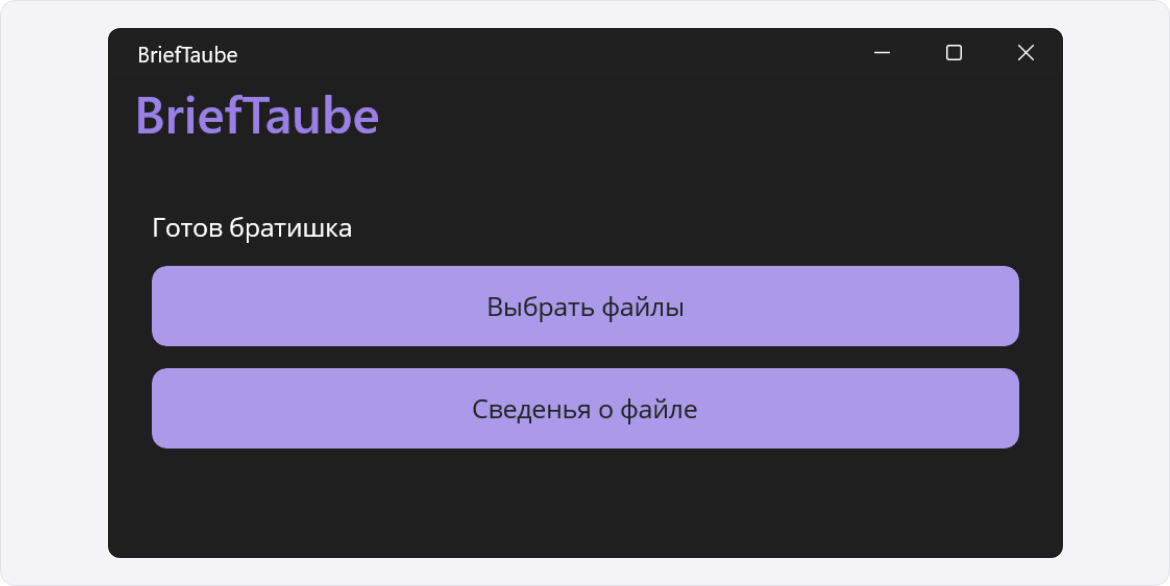
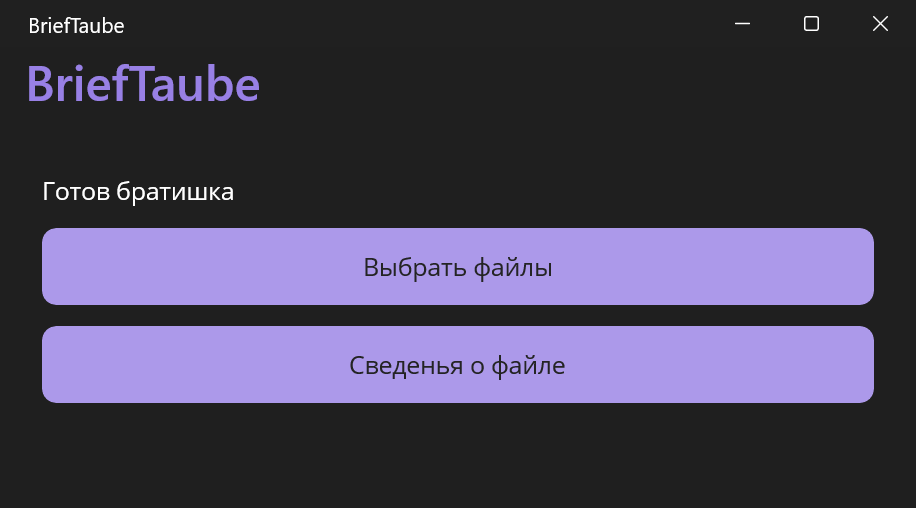
README update

diff --git a/README.md b/README.md
@@ -2,13 +2,8 @@
 Учебный проект для обмена файлами и ссылками между Windows и Android.
 
 ![C#, .NET MAUI, Windows и Android](docs/images/stack.svg)
-
----
 <img src="docs/images/brieftaube-windows.png" width="780" alt="Окно BriefTaube с кнопками выбора файла и просмотра сведений о нём">
-
 *Главный экран BriefTaube в Windows.*
-
----
 
 ## Возможности прототипа
 Можно выбрать файл через системное окно, посмотреть его размер и вычислить контрольную сумму SHA-256.
